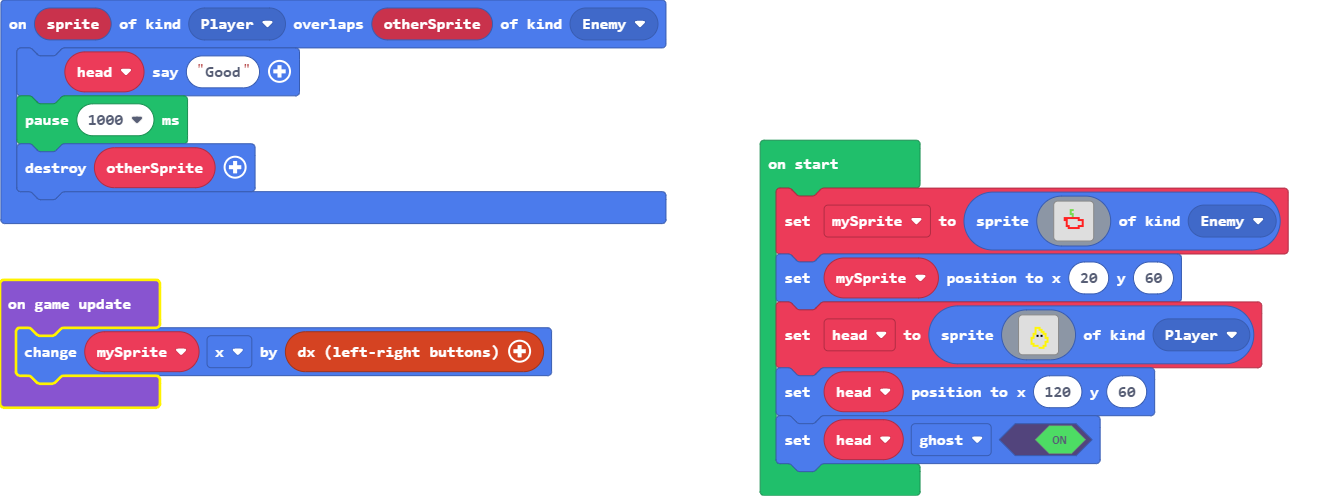
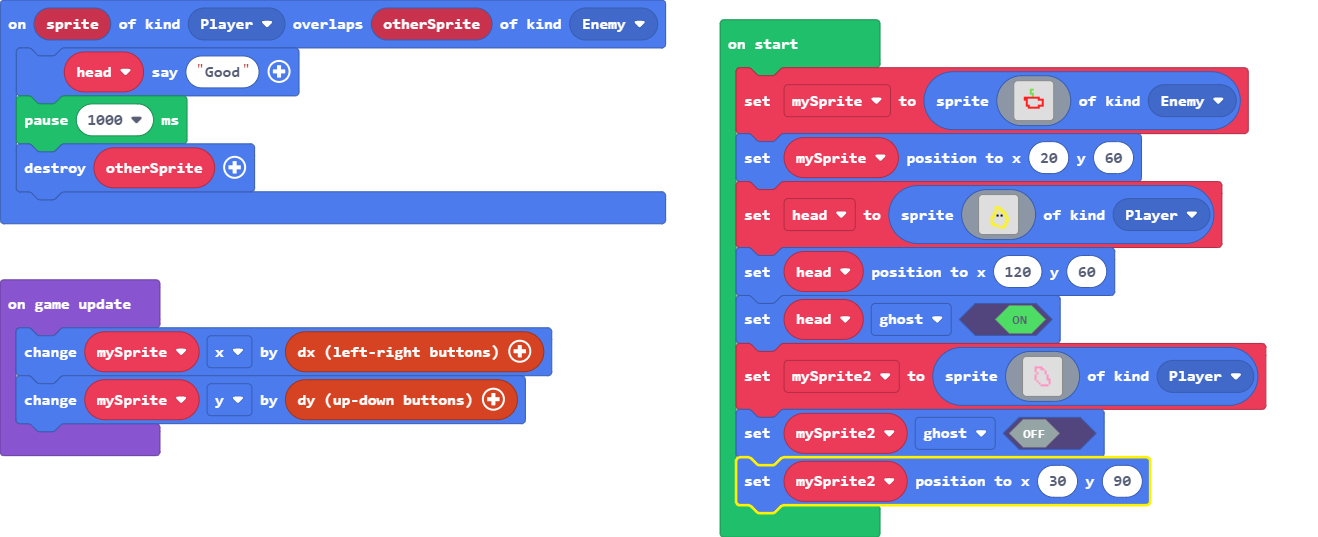
task 2 updates

diff --git a/main.ts b/main.ts
@@ -43,6 +43,27 @@ head = sprites.create(img`
     `, SpriteKind.Player)
 head.setPosition(120, 60)
 head.setFlag(SpriteFlag.Ghost, true)
+let mySprite2 = sprites.create(img`
+    . . . . . . . . . . . . . . . . 
+    . . . . . . . . . . . . . . . . 
+    . . . . . . . . . . . . . . . . 
+    . . . . 3 3 3 3 . . . . . . . . 
+    . . . . 3 . . 3 3 . . . . . . . 
+    . . . . 3 . . . . 3 . . . . . . 
+    . . . . . 3 . . . 3 . . . . . . 
+    . . . . 3 . . . . . 3 . . . . . 
+    . . . . 3 . . . . . 3 . . . . . 
+    . . . . 3 . . . . . 3 3 . . . . 
+    . . . . . 3 . . . . . 3 . . . . 
+    . . . . . . 3 . . . . 3 . . . . 
+    . . . . . . . 3 3 3 3 . . . . . 
+    . . . . . . . . . . . . . . . . 
+    . . . . . . . . . . . . . . . . 
+    . . . . . . . . . . . . . . . . 
+    `, SpriteKind.Player)
+mySprite2.setFlag(SpriteFlag.Ghost, false)
+mySprite2.setPosition(30, 90)
 game.onUpdate(function () {
     mySprite.x += controller.dx()
+    mySprite.y += controller.dy()
 })
